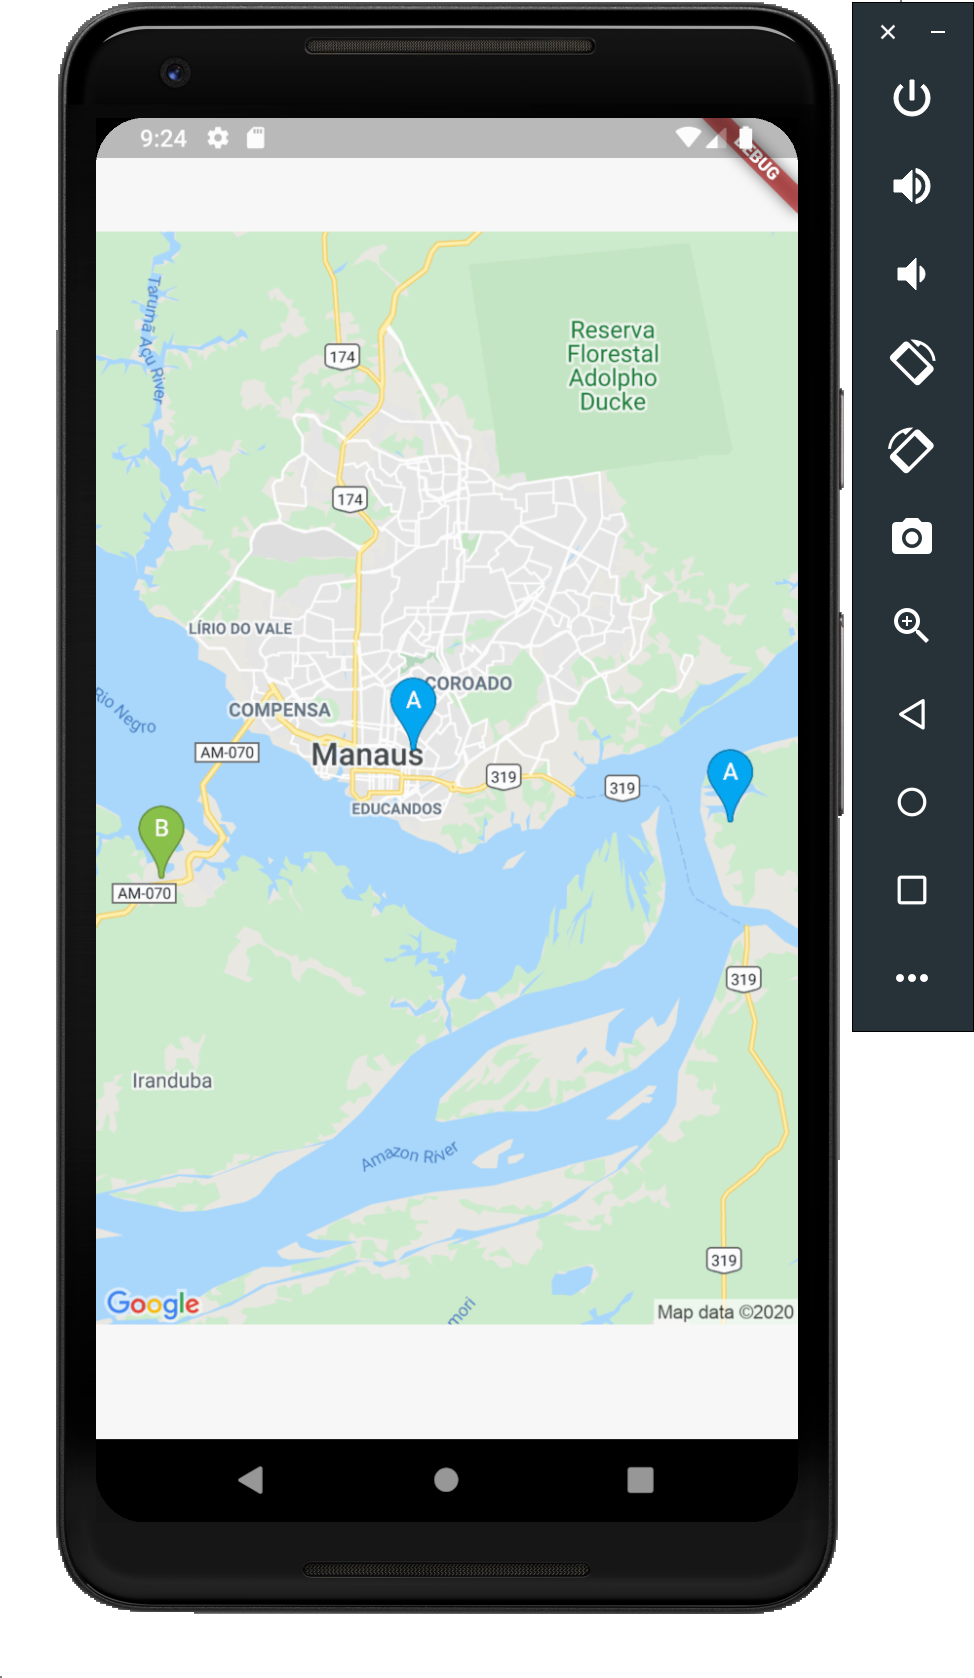
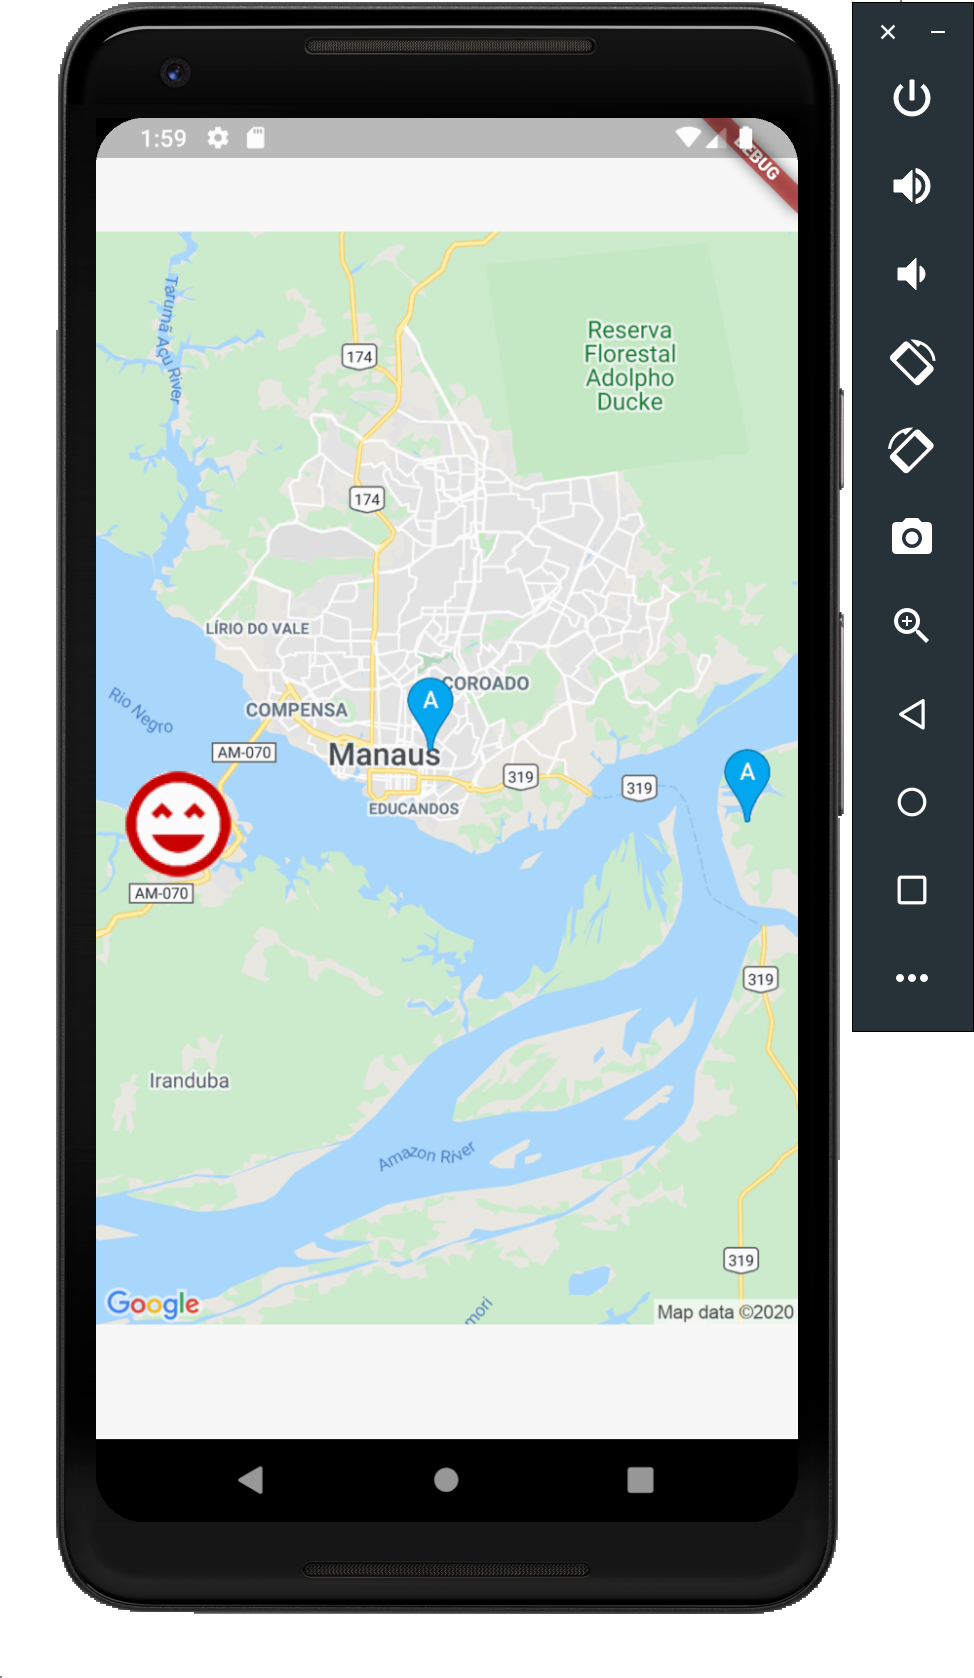
Prepare for 0.2.0 release
- Update changelog
- Update readme.md
- Update screen

diff --git a/example/lib/main.dart b/example/lib/main.dart
@@ -34,9 +34,9 @@ class MyHomePage extends StatelessWidget {
               Location(-3.1467579, -59.8753814),
             ],
           ),
-          Marker(
-            color: Colors.lightGreen,
-            label: "B",
+          Marker.custom(
+            anchor: MarkerAnchor.bottom,
+            icon: "https://goo.gl/1oTJ9Y",
             locations: [
               Location(-3.1694166, -60.1041517),
             ],

diff --git a/README.md b/README.md
@@ -1,4 +1,5 @@
 # google_static_maps_controller
+[![Codemagic build status](https://api.codemagic.io/apps/5e70ce446e13eb493ea3b675/5e70ce446e13eb493ea3b674/status_badge.svg)](https://codemagic.io/apps/5e70ce446e13eb493ea3b675/5e70ce446e13eb493ea3b674/latest_build)
 
 The package provides simple access to the Google Static Maps service.
 
@@ -30,10 +31,10 @@ The package provides simple access to the Google Static Maps service.
                 Location(-3.1467579, -59.8753814),
               ],
             ),
-            /// Define another marker style
-            Marker(
-              color: Colors.lightGreen,
-              label: "B",
+            /// Define another marker style with custom icon
+            Marker.custom(
+              anchor: MarkerAnchor.bottom,
+              icon: "https://goo.gl/1oTJ9Y",
               locations: [
                 Location(-3.1694166, -60.1041517),
               ],
@@ -72,6 +73,24 @@ The package provides simple access to the Google Static Maps service.
     );
   }
 ```
+
+| Feature                             |  Status  |
+| :---------------------------------- | :------: |
+| Base Static map support             |    ✅    |
+| Zoom levels                         |    ✅    |
+| Image sizes                         |    ✅    |
+| Map types                           |    ✅    |
+| Markers                             |    ✅    |
+| Map styles                          |   ⚙ ❌   |
+| Paths                               |    ❌    |
+| Encoded Polylines                   |    ❌    |
+| Viewports                           |    ❌    |
+
+
+✅ - done  
+🧪 - experimental  
+⚙  - work in progress  
+❌ - not yet implemented 
 
 ## Example:
 ![map_screenshot](./readme/screen.png)

diff --git a/CHANGELOG.md b/CHANGELOG.md
@@ -1,3 +1,5 @@
+## [0.2.0] - 17.03.2020
+* Added `Marker.custom` constructor that allows using custom marker icons
 ## [0.1.0] - 13.03.2020
 * Improve readme
 ## [0.0.1] - 13.03.2020
